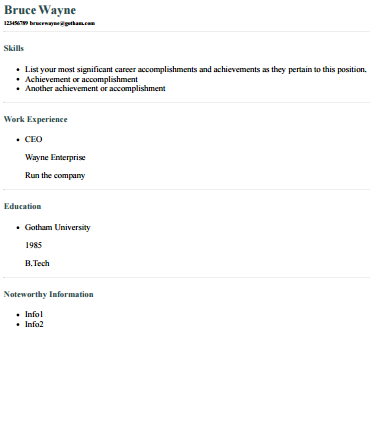
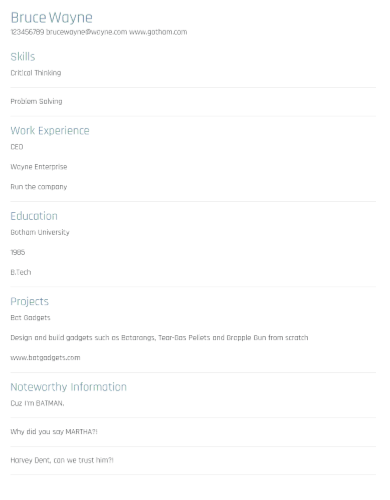
template images

diff --git a/gridCV.html b/gridCV.html
@@ -161,7 +161,7 @@
                                     <br>
                                     <h6 id=t_phone>123456789</h6>
                                     <h6 id=t_email>brucewayne@wayne.com</h6>
-                                    <h6 id=t_website>www.lala.co</h6>
+                                    <h6 id=t_website>www.gotham.com</h6>
                                 </div>
                             </div>
                             <br/>
@@ -172,7 +172,7 @@
                                         <h4>Skills</h4>
                                     </div>
                                     <ul id="t_skills">
-                                        <li>Skills1</li>
+                                        <li>Problem Solving</li>
                                     </ul>
                                 </div>
                             </div>
@@ -183,9 +183,9 @@
                                     </div>
                                     <ul id="t_experience">
                                         <li>
-                                            <p class="t_jobTitle">Job Title</p>
-                                            <p class="t_companyName">Company Name</p>
-                                            <p class="t_jobResponsibilities">Job Responsibilities</p>
+                                            <p class="t_jobTitle">CEO</p>
+                                            <p class="t_companyName">Wayne Enterprise</p>
+                                            <p class="t_jobResponsibilities">Run the company</p>
                                         </li>
                                     </ul>
                                 </div>
@@ -197,9 +197,9 @@
                                     </div>
                                     <ul id="t_education">
                                         <li>
-                                            <p class="t_institute">Institute Name</p>
-                                            <p class="t_pass">Pass out year</p>
-                                            <p class="t_degree">Degree</p>
+                                            <p class="t_institute">Gotham University</p>
+                                            <p class="t_pass">1985</p>
+                                            <p class="t_degree">B.Tech</p>
                                         </li>
                                     </ul>
                                 </div>
@@ -212,9 +212,9 @@
                                     </div>
                                     <ul id="t_project">
                                         <li>
-                                            <p class="t_project_title">Project Title</p>
-                                            <p class="t_project_desc">Project Description</p>
-                                            <p class="t_project_link">Project URL</p>
+                                            <p class="t_project_title">Bat Gadgets</p>
+                                            <p class="t_project_desc">Design and built gadgets such as Batarangs,Tear-Gas Pellets and Grapple Gun from scratch.</p>
+                                            <p class="t_project_link">www.batgadgets.com</p>
                                         </li>
                                     </ul>
                                 </div>
@@ -226,8 +226,8 @@
                                         <h4>Noteworthy Information</h4>
                                     </div>
                                     <ul id="t_nInfo">
-                                        <li>Sports captain in tthe 11th and 12th grade in school.</li>
-                                        <li>Active quizer.</li>
+                                        <li>Cuz I'm BATMAN</li>
+                                        <li>Why did you say MARTHA?!</li>
                                     </ul>
                                 </div>
                             </div>
